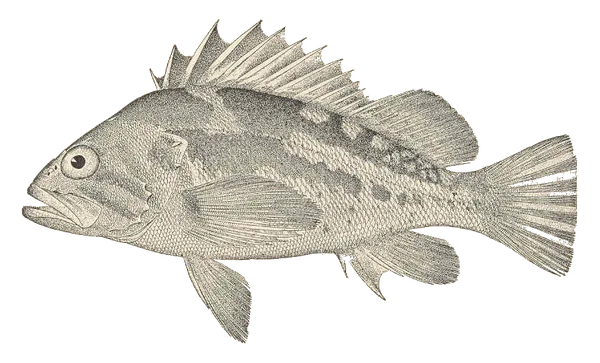
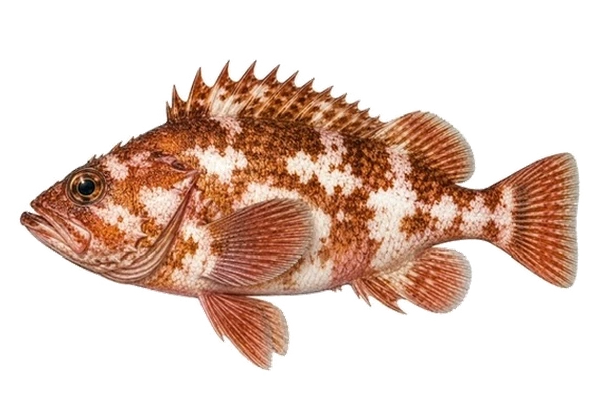
Add more rockfish: bank, widow, brown, gopher; refresh copper
New art (luminance-cutout pipeline, transparent bg, intact spines/fins, 600px webp):
- copper-rockfish (Sebastes caurinus): refreshed plate
- bank-rockfish (Sebastes rufus): new plate + catch-data entry
- widow-rockfish (Sebastes entomelas): new plate + catch-data entry
- brown-rockfish (Sebastes auriculatus): new plate + catch-data entry
- gopher-rockfish (Sebastes carnatus): new plate + catch-data entry

Wire the four new keys into the ILLUS map; bump illus to v=28, catch-data to
v=16, site.js to v=51. All five verified rendering at 600px.

diff --git a/site/catch-data.js b/site/catch-data.js
@@ -1838,6 +1838,107 @@ window.CATCH = [
     "img": "/site/img/species/copper-rockfish.jpg"
   },
   {
+    "key": "bank-rockfish",
+    "commonName": "Bank Rockfish",
+    "spanishName": "Rocote de Banco",
+    "scientificName": "Sebastes rufus",
+    "category": "Rockfish",
+    "coasts": [
+      "Pacific"
+    ],
+    "season": "Year-round",
+    "marquee": false,
+    "baits": [
+      "cut squid",
+      "cut bait/strip",
+      "shrimp"
+    ],
+    "lures": [
+      "shrimp flies (gangion)",
+      "deep-drop dropper-loop rigs"
+    ],
+    "technique": "Deep-drop shrimp-fly gangions and bait rigs to offshore banks and high-relief rock; an orange, black-flecked rockfish taken in the deep rockfish complex. Bring a heavy sinker for the depth.",
+    "notes": "Deep offshore-bank rockfish (Sebastes rufus), orange with black speckling. Gangion bottom fish.",
+    "img": "/site/img/species/bank-rockfish.jpg"
+  },
+  {
+    "key": "widow-rockfish",
+    "commonName": "Widow Rockfish",
+    "spanishName": "Rocote Viuda",
+    "scientificName": "Sebastes entomelas",
+    "category": "Rockfish",
+    "coasts": [
+      "Pacific"
+    ],
+    "season": "Year-round",
+    "marquee": false,
+    "baits": [
+      "cut squid",
+      "cut bait/strip",
+      "shrimp"
+    ],
+    "lures": [
+      "shrimp flies (gangion)",
+      "small jigs",
+      "deep-drop dropper-loop rigs"
+    ],
+    "technique": "Work shrimp-fly gangions and small jigs through mid-water and over deep reef where they school, often well up off the bottom; a dark brassy schooling rockfish caught in numbers in the complex.",
+    "notes": "Schooling mid-water rockfish (Sebastes entomelas), dark brassy-brown. Often suspends off the bottom.",
+    "img": "/site/img/species/widow-rockfish.jpg"
+  },
+  {
+    "key": "brown-rockfish",
+    "commonName": "Brown Rockfish",
+    "spanishName": "Rocote Café",
+    "scientificName": "Sebastes auriculatus",
+    "category": "Rockfish",
+    "coasts": [
+      "Pacific"
+    ],
+    "season": "Year-round (kelp & rocks)",
+    "marquee": false,
+    "baits": [
+      "cut squid",
+      "cut bait/strip",
+      "shrimp",
+      "live sardina"
+    ],
+    "lures": [
+      "leadhead swimbaits / plastics",
+      "shrimp flies (gangion)",
+      "small jigs"
+    ],
+    "technique": "Fish bait or swimbaits on rocky and kelp-bed bottom in shallow to moderate depth, including bays and jetties; a tan-brown mottled rockfish with a dark gill-cover blotch, caught shallower than the deep reds.",
+    "notes": "Shallow kelp/bay rockfish (Sebastes auriculatus) with a dark spot on the gill cover.",
+    "img": "/site/img/species/brown-rockfish.jpg"
+  },
+  {
+    "key": "gopher-rockfish",
+    "commonName": "Gopher Rockfish",
+    "spanishName": "Rocote Gopher",
+    "scientificName": "Sebastes carnatus",
+    "category": "Rockfish",
+    "coasts": [
+      "Pacific"
+    ],
+    "season": "Year-round (kelp & rocks)",
+    "marquee": false,
+    "baits": [
+      "cut squid",
+      "cut bait/strip",
+      "shrimp",
+      "live sardina"
+    ],
+    "lures": [
+      "leadhead swimbaits / plastics",
+      "shrimp flies (gangion)",
+      "small jigs"
+    ],
+    "technique": "Drop bait or small swimbaits tight to shallow high-relief rock and kelp; a stocky brown-and-pink mottled rockfish that holds close to structure. Quick lift to keep it out of the rocks.",
+    "notes": "Shallow-reef rockfish (Sebastes carnatus), brown with pink/white mottling. Tight-to-structure fish.",
+    "img": "/site/img/species/gopher-rockfish.jpg"
+  },
+  {
     "key": "blue-rockfish",
     "commonName": "Blue Rockfish",
     "spanishName": "Rocote Azul",

diff --git a/site/site.js b/site/site.js
@@ -401,9 +401,10 @@
    'black-triggerfish','burrito-grunt',
    'cortez-halibut','california-turbot',
    'needlefish','mexican-barracuda',
-   'vermilion-rockfish','bocaccio','chilipepper','starry-rockfish'
-  ].forEach(function (k) { ILLUS[k] = '/site/img/illus/' + k + '.webp?v=27'; });
-  ILLUS['pez-fuerte'] = '/site/img/illus/pez-fuerte.webp?v=27'; // almaco jack, same fish as amberjack plate
+   'vermilion-rockfish','bocaccio','chilipepper','starry-rockfish',
+   'bank-rockfish','widow-rockfish','brown-rockfish','gopher-rockfish'
+  ].forEach(function (k) { ILLUS[k] = '/site/img/illus/' + k + '.webp?v=28'; });
+  ILLUS['pez-fuerte'] = '/site/img/illus/pez-fuerte.webp?v=28'; // almaco jack, same fish as amberjack plate
 
   /* ---- premium species explorer (driven by window.CATCH) ---- */
   function species() {

diff --git a/site/index.html b/site/index.html
@@ -461,8 +461,8 @@
 
   <script src="/data.js?v=20260529-4"></script>
   <script src="/site/departures.js?v=1"></script>
-  <script src="/site/catch-data.js?v=15"></script>
+  <script src="/site/catch-data.js?v=16"></script>
   <script src="/site/hero-video.js?v=2"></script>
-  <script src="/site/site.js?v=50"></script>
+  <script src="/site/site.js?v=51"></script>
 </body>
 </html>